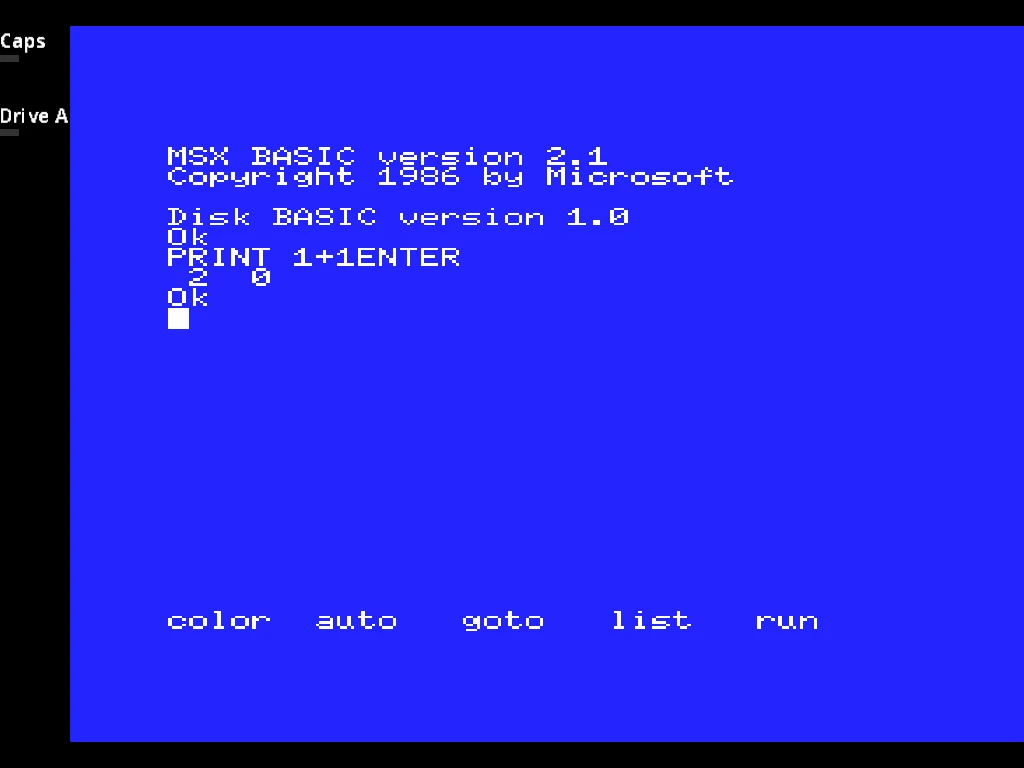
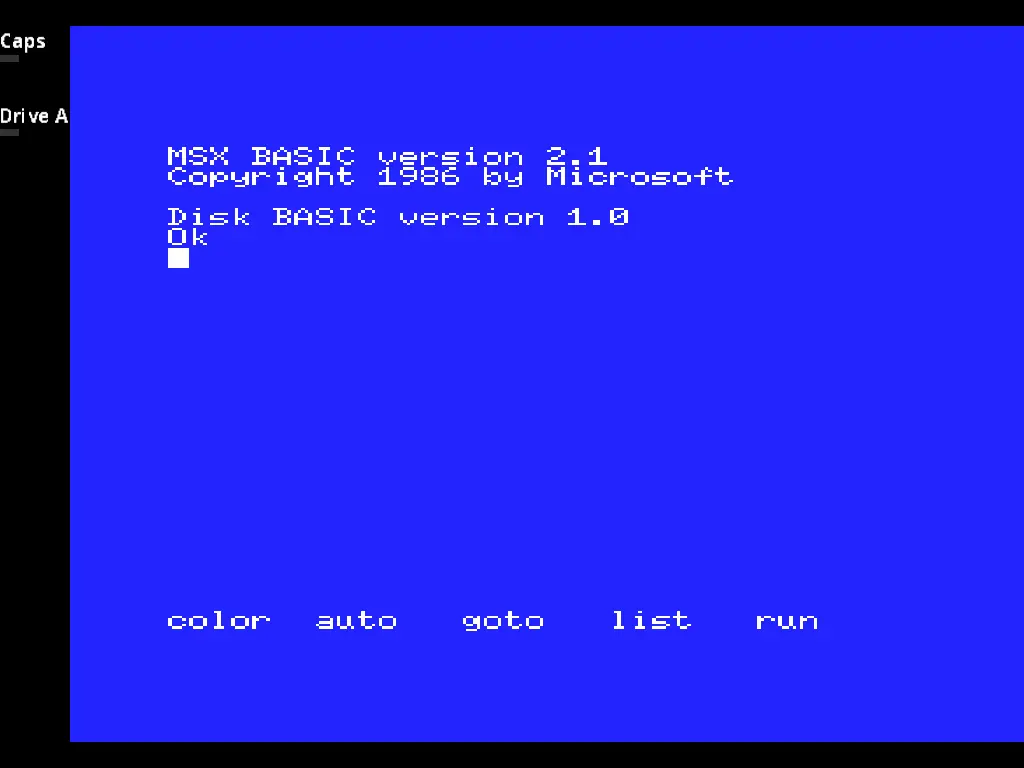
msx2: production keyboard path proven from the real browser — MAME_CTL_KEY_EXCL=:KEY, clean rest-scene hero
Dark-launch rig at /os/msx2 exercised the actual production path (mamesock
backend, generated msx2.keymap, SH_KEY_MIN_HOLD_MS/GAP_MS=40/40) rather than
MAME's natural-keyboard verbs used by the earlier smoke stream. The MSX2
8255 PPI matrix is CPU-scanned like the SAM Coupe's, so MAME_CTL_KEY_EXCL=:KEY
is set from the start; a real Chromium tab typed `PRINT 1+1` through the SPA
byte-perfect, Enter executed it, "2" printed, fresh "Ok" returned, and the
daemon's mamesock counters read accepted=35 dropped=0 overflow=0 unmapped=0.

MSX-DOS 2 reachability stays OUT OF SCOPE per the operator's decision (the
machine's built-in disk ROM is DOS1; DOS2 needs its own cartridge ROM this
wave never staged) — station.env.fixture, the registry keyboard/fixture
prose and the poster copy now say so instead of implying it is one command
away.

Replaced the poster hero with a clean cold-boot frame (fb.shm dump via
scripts/shmshot.py, 1024x768) — the previous hero carried a stray "ENTER"/"0"
artifact left over from the smoke stream's natural-keyboard proof.

Claude-Session: https://claude.ai/code/session_01PQDnpb2NzHhjAXT8MMAuVY

Changed region(s): [[0.1562, 0.3125, 0.4688, 0.4375]]

diff --git a/registry/posters/msx2.md b/registry/posters/msx2.md
@@ -30,7 +30,7 @@ The standardization also points forward. MSX separated the idea of a software pl
 
 The station is a **Philips NMS 8250** (1987), an ordinary European MSX2 model with one internal 3.5" floppy drive — not a later turbo machine. It runs host-native: MAME's own `nms8250` driver on the exhibit host, publishing its framebuffer directly, the same engine that runs the museum's SAM Coupé and Apple IIe stations.
 
-The rest scene is MSX-BASIC's `Ok` prompt — the machine's own power-on screen. A genuine period MSX-DOS 2 (English) system disk sits in the internal floppy drive; reaching MSX-DOS 2 from BASIC is one command away.
+The rest scene is MSX-BASIC's `Ok` prompt — the machine's own power-on screen. A genuine period MSX-DOS 2 (English) system disk sits in the internal floppy drive, though this machine's built-in disk ROM speaks MSX-DOS 1 (the "Disk BASIC version 1.0" line in the banner); reaching an MSX-DOS 2 command line needs its own cartridge ROM, which this exhibit does not carry yet.
 
 ## Legacy
 
